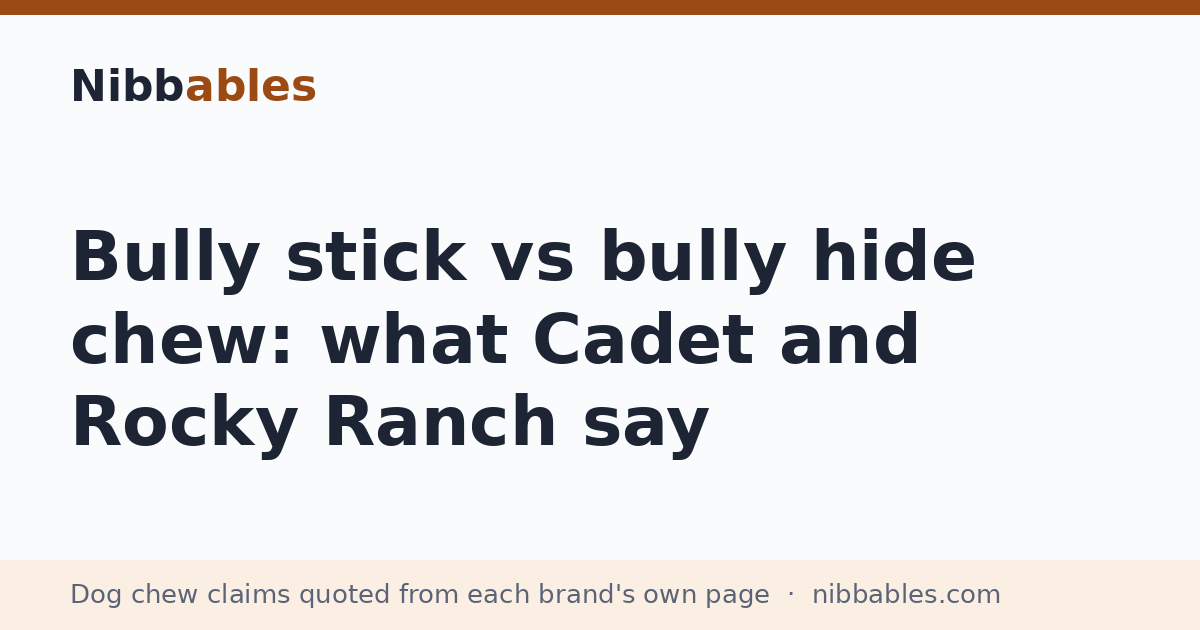
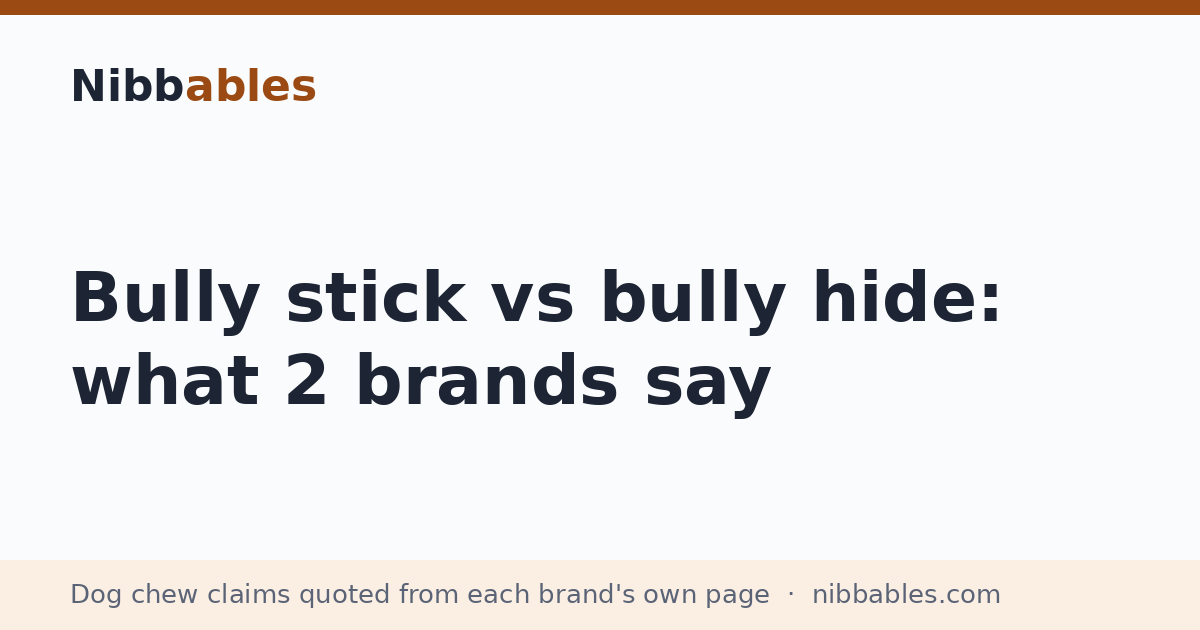
Article schema + org author + byline, use-case hub blocks, ItemList urls, click events
- Guides: Article JSON-LD (Organization author/publisher, real published + last-checked dates), og:type=article
- WebPage: Organization author on every page; visible 'Nibbables editorial team' byline with per-page updated date
- /bully-sticks/ and /antlers/: sourced use-case blocks, each attribute asserted against data/products.json
- Hub ItemList entries carry the product's own url (no Product/Offer/price)
- affiliate_click / outbound_click GA4 events on every page; privacy policy updated
- yak-chew-microwave headings rebuilt around the query cluster; titles trimmed

Changed region(s): [[0.0617, 0.3619, 0.8325, 0.7238]]

diff --git a/static/style.css b/static/style.css
@@ -52,3 +52,7 @@ nav{display:flex;flex-wrap:wrap;gap:4px 0}
 .ytplay{position:absolute;left:50%;top:50%;width:68px;height:48px;margin:-24px 0 0 -34px;background:#f00;border-radius:12px;opacity:.9}
 .ytplay::after{content:"";position:absolute;left:27px;top:14px;border-style:solid;border-width:10px 0 10px 17px;border-color:transparent transparent transparent #fff}
 .yt button:focus-visible{outline:3px solid #fff;outline-offset:-3px}
+
+.byline{color:var(--muted);font-size:.86rem;margin:.1em 0 .9em;padding-left:10px;border-left:3px solid var(--accent2)}
+ul.verdict{margin:8px 0 12px;padding-left:20px}
+ul.verdict li{margin:0 0 8px}

diff --git a/build.py b/build.py
@@ -109,7 +109,7 @@ META = {}  # path -> (title, description); feeds llms.txt
 # (latest last_checked of what the page shows), never "today". Feeds WebPage dateModified, visible dates and sitemap lastmod.
 MODIFIED = {}
 ABOUT_UPDATED = "2026-10-27"     # bump when /about/ text changes
-PRIVACY_UPDATED = "2026-10-27"   # matches privacy.EFFECTIVE
+PRIVACY_UPDATED = "2026-11-04"   # matches privacy.EFFECTIVE
 
 def cat_products(c, products):
     if c["slug"] == "rawhide-free":
@@ -127,9 +127,29 @@ def webpage_ld(title, desc, path):
     return {"@context": "https://schema.org", "@type": "AboutPage" if path == "/about/" else "WebPage",
             "@id": base_url() + path, "url": base_url() + path, "name": title, "description": desc,
             "dateModified": MODIFIED[path], "inLanguage": "en-US",
+            "author": {"@type": "Organization", "@id": base_url() + "/#org", "name": CFG["site_name"]},
             "isPartOf": {"@type": "WebSite", "@id": base_url() + "/#website", "name": CFG["site_name"],
                          "url": base_url() + "/", "publisher": org_ld()},
             "publisher": {"@id": base_url() + "/#org"}}
+
+def article_ld(g, path):
+    """Article JSON-LD for guide pages (added 2026-11-04). Author is the Nibbables Organization node, never a Person:
+    there is no named human behind this site and we don't imply veterinary review. datePublished is the guide's real
+    first-publication date, recorded in its own JSON when the page was written; dateModified is the page's real
+    last-checked date (MODIFIED, from the data), never the build time."""
+    pub = g.get("published")
+    assert re.fullmatch(r"\d{4}-\d{2}-\d{2}", pub or ""), f"guide {g['slug']}: needs a real 'published' date"
+    mod = MODIFIED[path]
+    assert pub <= mod, f"guide {g['slug']}: published {pub} is after its last-checked date {mod}"
+    return {"@context": "https://schema.org", "@type": "Article",
+            "@id": base_url() + path + "#article", "url": base_url() + path,
+            "headline": g["h1"][:110], "description": g["meta"],
+            "datePublished": pub, "dateModified": mod, "inLanguage": "en-US",
+            "author": {"@type": "Organization", "@id": base_url() + "/#org", "name": CFG["site_name"],
+                       "url": base_url() + "/"},
+            "publisher": {"@id": base_url() + "/#org"},
+            "isPartOf": {"@id": base_url() + "/#website"},
+            "mainEntityOfPage": {"@type": "WebPage", "@id": base_url() + path}}
 
 # Hand-written complete meta descriptions for pages whose long description would otherwise be cut mid-sentence.
 # Reworded only from the page's own description; no new facts. Keep <= 158 chars.
@@ -221,9 +241,43 @@ def breadcrumb_ld(body, path):
         dict({"@type": "ListItem", "position": i + 1, "name": n}, **({"item": h} if h else {}))
         for i, (n, h) in enumerate(items)]}
 
-def page(title, desc, path, body, jsonld=None):
+# Sitewide byline (added 2026-11-04). Organization only: there is no named person behind this site, so this never
+# names an author and never implies veterinary review. The date is the page's OWN last-checked date from the data
+# (MODIFIED), never the build time.
+BEFORE_LINE = ("Nibbables editorial team. Every claim on this page is quoted from the brand's own page or the source "
+               "linked next to it; we don't test, rate or review products.")
+GUIDE_LINE = ("Nibbables editorial team. Every claim on this page is quoted from the brand's own page or the named "
+              "source linked beside it; we don't test, rate or review products.")
+NO_BYLINE = ("/about/", "/privacy/")
+
+def byline(path, guide=False):
+    d = MODIFIED.get(path)
+    if not d or path in NO_BYLINE:
+        return ""
+    line = GUIDE_LINE if guide else BEFORE_LINE
+    return (f'<p class="byline">{e(line)} Page updated {e(d)}. '
+            f'<a href="{U("/about/")}">How we verify</a>.</p>')
+
+CLICK_JS = r"""<script>
+/* Outbound + affiliate click tracking (added 2026-11-04). Sends the destination host and, for affiliate links,
+   the id of the product card the link sits in. No personal data, no cookies, no cross-site ids. */
+(function(){function card(a){var c=a.closest('article.card');return c&&c.id?c.id:''}
+document.addEventListener('click',function(ev){var t=ev.target;if(!t||!t.closest)return;var a=t.closest('a[href]');if(!a)return;
+var h=a.getAttribute('href')||'';if(!h||h.charAt(0)==='#'||h.indexOf('mailto:')===0)return;var u;
+try{u=new URL(h,location.href)}catch(x){return}if(u.hostname===location.hostname)return;
+if(typeof gtag!=='function')return;var d=u.hostname.replace(/^www\./,'');
+if(a.classList.contains('aff')){gtag('event','affiliate_click',{link_domain:d,product_card:card(a)});}
+else{gtag('event','outbound_click',{link_domain:d,link_url:u.href});}},true);})();
+</script>
+</body></html>"""
+
+def page(title, desc, path, body, jsonld=None, guide=False):
     crumbs = breadcrumb_ld(body, path)
     body = link_hubs(body, path)
+    bl = byline(path, guide)
+    if bl:
+        i = body.find("</h1>")
+        body = (body[:i + 5] + "\n" + bl + body[i + 5:]) if i != -1 else bl + body
     desc = META_DESC.get(path, desc)
     title, desc = fit_meta(title, desc)
     url = base_url() + path
@@ -241,7 +295,7 @@ def page(title, desc, path, body, jsonld=None):
 <link rel="canonical" href="{e(url)}">
 <link rel="alternate" type="application/atom+xml" title="{e(CFG['site_name'])}" href="{e(base_url())}/feed.xml">
 <meta property="og:title" content="{e(title)}"><meta property="og:description" content="{e(desc)}">
-<meta property="og:type" content="website"><meta property="og:url" content="{e(url)}">
+<meta property="og:type" content="{'article' if guide else 'website'}"><meta property="og:url" content="{e(url)}">
 {og_image(path, title)}
 <link rel="stylesheet" href="{U('/static/style.css')}">{ld}
 </head><body>
@@ -251,7 +305,7 @@ def page(title, desc, path, body, jsonld=None):
 {body}
 </div></main>
 <footer><div class="wrap">© {year} {e(CFG['site_name'])}. We quote what each brand says on its own website and link the source. We don't test, rate or review products. Brand claims (including "Made in USA") are the brand's, not ours. Always supervise chewing, pick an appropriate size, and ask your vet. {footer_aff_note()} <a href="{U('/about/')}">How we verify &amp; affiliate disclosure</a>. <a href="{U('/privacy/')}">Privacy policy</a>. <a href="{YT_CHANNEL}" rel="noopener" target="_blank">Nibbables on YouTube</a>.</div></footer>
-</body></html>"""
+{CLICK_JS}"""
 
 SAFETY = """<aside class="note"><strong>Before you give any chew:</strong> supervise your dog while it chews, choose a size and hardness that suits your dog (follow the brand's size guidance), take away small or broken pieces, keep fresh water available, and ask your vet if a chew is right for your dog, especially for puppies, seniors, dogs with dental work or dogs on special diets. Nibbables does not rate safety. Each card shows what the brand itself says.</aside>"""
 
@@ -556,6 +610,108 @@ def cat_faq(c, ps):
 
 CATS = []  # filled in main()
 
+# ---------------------------------------------------------------------------------------------------------------
+# "Which one, by use case" hub answer blocks (added 2026-11-04, audit P1-10b). Google's results for "best bully sticks
+# for dogs" are recommendation listicles; these hubs opened with methodology and gave no answer. Every pick below rests
+# ONLY on an attribute the brand states on the product page we already quote, and that attribute is printed next to a
+# link to the product's own card. Nothing here is a test, a rating or a review. Each entry is machine-checked: the
+# assertion has to hold against data/products.json or the build fails, and the few superlatives are computed, not asserted.
+VERDICTS = {
+    "bully-sticks": {
+        "h": "Which bully stick, by use case, on the brands' own wording",
+        "intro": ("Not a ranking. Four use cases, and for each one a stick whose brand states the relevant attribute on "
+                  "the page we quote. The attribute is named for every pick, and each product links to its card below."),
+        "picks": [
+            {"use": "Small dogs and puppies",
+             "brand": "Campfire Treats", "product": "Thin Odor-Free Bully Sticks (4-6 Inch)",
+             "why": "its brand sizes it for small dogs and puppies",
+             "attribute": "the brand's own size guidance: \u201cPerfectly sized for small dogs and puppies\u201d",
+             "check": [("size_guidance", r"small dogs and puppies")]},
+            {"use": "Power chewers",
+             "brand": "GREAT DOG CO.", "product": "12\" Beef Bully Stick \u2013 Beef Pizzle 4.0, Jumbo Size",
+             "why": "its brand names strong chewers and states the stick's weight",
+             "attribute": "the brand's own size guidance: \u201cPerfect for Strong Chewers \u2013 Dense, long-lasting chew time for medium to large dogs\u201d, and its listed weight of 4.0\u20134.9 ounces per 12-inch stick",
+             "check": [("size_guidance", r"Strong Chewers"), ("sizes", "4\\.0\u2013?4\\.9 ounces")]},
+            {"use": "Odor and fat",
+             "brand": "Campfire Treats", "product": "Standard Odor-Free Bully Sticks (8-10 Inch)",
+             "why": "the brand calls it odor-free and its label states crude fat",
+             "attribute": "\u201cOdor-Free\u201d in the brand's product name; guaranteed analysis 7% crude fat (min) as the label states it",
+             "check": [("product", r"odor-free")], "fat": 7.0},
+            {"use": "The longest single stick listed on this page",
+             "brand": "Redbarn", "product": "Bully Sticks for Dogs",
+             "why": "it lists a 36-inch option, longer than any other brand here lists",
+             "attribute": "size options the brand lists, 3-4 inches up to 36 inches; that 36-inch option is the longest listed by any brand on this page",
+             "check": [("sizes", r"36\"")], "longest": 36},
+        ]},
+    "antlers": {
+        "h": "Which antler, by use case, on the brands' own wording",
+        "intro": ("Not a ranking. Three use cases, and for each one an antler whose brand states the relevant attribute on "
+                  "the page we quote. The attribute is named for every pick, and each product links to its card below. "
+                  "The antler cards here don't carry a guaranteed analysis from the brands, so this page makes no fat or "
+                  "calorie claim."),
+        "picks": [
+            {"use": "Sizes split by dog weight",
+             "brand": "Mighty Paw", "product": "All-Natural Elk Antlers",
+             "why": "it is the only brand here whose size options are given as dog weight ranges",
+             "attribute": "size options the brand lists by dog weight: Medium 10-45 lbs, Large 45-75 lbs, Monster 75+ lbs",
+             "check": [("sizes", r"75\+\s*lbs")], "only_weight_sizes": True},
+            {"use": "A stated country of origin",
+             "brand": "Redbarn", "product": "Elk Antler",
+             "why": "its page names the countries of origin and says where the antlers come from",
+             "attribute": "the brand's own wording: \u201cCountry of Origin: USA, Canada\u201d and \u201cWe only source wild antlers\u201d",
+             "check": [("made_in", "Country of Origin: USA, Canada"), ("sourced_from", "only source wild antlers")]},
+            {"use": "Puppies, senior dogs and dogs that need easier access to the marrow",
+             "brand": "GREAT DOG CO.", "product": "5 Inch Split Jumbo Elk Antler Chew",
+             "why": "it is listed as split, and its brand names those three groups for the split",
+             "attribute": "the brand's own size guidance naming \u201cpuppies, senior dogs, and dogs that prefer easier access to the marrow center\u201d",
+             "check": [("size_guidance", r"puppies, senior dogs, and dogs that prefer easier access to the marrow")]},
+        ]},
+}
+
+def _fat(p):
+    ga = p.get("guaranteed_analysis") or ""
+    m = re.search(r"crude\s+fat[^0-9%]{0,25}([\d.]+)\s*%", ga, re.I)
+    return float(m.group(1)) if m else None
+
+def _max_inches(p):
+    """Longest length in inches across a product's own size option labels (only where the label states inches)."""
+    n = 0
+    for lab in p["sizes"]:
+        for m in re.finditer(r"(\d+(?:\.\d+)?)\s*(?:\"|\u201d|in\b|inch)", lab, re.I):
+            n = max(n, float(m.group(1)))
+        for m in re.finditer(r"(\d+)\s*(?:-|\u2013)\s*(\d+)\s*(?:\"|\u201d|in\b|inch)", lab, re.I):
+            n = max(n, float(m.group(2)))
+    return n
+
+def verdict_block(c, ps):
+    """Render the use-case block for a hub. Every claim is asserted against the product's own quoted field."""
+    v = VERDICTS.get(c["slug"])
+    if not v:
+        return ""
+    items = []
+    for pk in v["picks"]:
+        p = next((x for x in ps if x["brand"] == pk["brand"] and x["product"] == pk["product"]), None)
+        assert p, f"verdict pick not in {c['slug']}: {pk['brand']} / {pk['product']}"
+        for field, rx in pk["check"]:
+            val = p[field]
+            val = " \u00b7 ".join(val) if isinstance(val, list) else val
+            assert re.search(rx, val, re.I), f"verdict claim unsupported by {p['id']}.{field}: {rx!r} not in {val!r}"
+        if "fat" in pk:
+            assert _fat(p) == pk["fat"], f"verdict fat claim no longer matches data for {p['id']}: {_fat(p)} != {pk['fat']}"
+        if "longest" in pk:
+            best = max(_max_inches(x) for x in ps)
+            assert _max_inches(p) == pk["longest"] == best, f"verdict 'longest' claim broken: {p['id']}={_max_inches(p)}, max={best}"
+        if pk.get("only_weight_sizes"):
+            others = [x for x in ps if x is not p and re.search(r"\blbs\b", " ".join(x["sizes"]), re.I)]
+            assert not others, f"verdict 'only brand with weight sizes' broken by {[o['id'] for o in others]}"
+        assert p["source_url"].startswith("https://"), f"verdict source for {p['id']} must be https"
+        items.append(f'<li><strong>{e(pk["use"])}:</strong> <a href="#{e(p["id"])}">{e(p["brand"])}: {e(p["product"])}</a> '
+                     f'&#8212; {e(pk["why"])}.<br><span class="meta">Brand-stated attribute: {e(pk["attribute"])}. '
+                     f'<a href="{e(p["source_url"])}" rel="nofollow noopener" target="_blank">Brand\'s own page, where it states that</a>.</span></li>')
+    return (f'<h2 id="which-one">{e(v["h"])}</h2><p>{e(v["intro"])}</p><ul class="verdict">{"".join(items)}</ul>'
+            f'<p class="meta">Each pick rests on the attribute named above and nothing else. Nibbables doesn\'t rank, '
+            f'test or rate chews, and this isn\'t a recommendation for your dog; ask your vet what suits it.</p>')
+
 def sibling_hubs_block(c, products):
     """Hub-to-hub links (entity hubs, 2026-10-25): every chew-type page links in-body to the other chew-type pages,
     with product counts computed from data/products.json."""
@@ -584,8 +740,9 @@ def category_page(c, products):
     faq_html, faq_ld = cat_faq(c, ps)
     toc = "".join(f'<li><a href="#{e(p["id"])}">{e(p["brand"])}: {e(p["product"])}</a></li>' for p in ps)
     body = f"""<p class="meta"><a href="{U('/')}">Home</a> › {e(c['name'])}</p>
-<h1>{e(c['h1'])}</h1><p class="lead">{e(c['intro'])}</p>
-<p class="meta">{len(ps)} products · every claim is quoted from the brand's own page and linked · no prices (they change; check the brand) · page updated {e(MODIFIED.get(f"/{c['slug']}/", ""))} · <a href="{U('/compare/')}">compare all in one table</a></p>
+<h1>{e(c['h1'])}</h1>
+{verdict_block(c, ps)}<p class="lead">{e(c['intro'])}</p>
+<p class="meta">{len(ps)} products · every claim is quoted from the brand's own page and linked · no prices (they change; check the brand) · <a href="{U('/compare/')}">compare all in one table</a></p>
 {SAFETY}
 {aff_disclosure(ps)}
 <details class="toc"><summary>Products on this page</summary><ul>{toc}</ul></details>
@@ -597,8 +754,11 @@ def category_page(c, products):
 {sibling_hubs_block(c, products)}
 <h2 id="all-products">All {len(ps)} {e(c['name'].lower())} we list, with what each brand's page says</h2>
 {''.join(card(p) for p in ps)}"""
+    # ListItem url = the product's own page (2026-11-04): the destination of the card's "Brand's product page" link
+    # (for CJ products that link resolves to exactly this URL). Names only otherwise: no Product, Offer, price or rating.
     ld = {"@context": "https://schema.org", "@type": "ItemList", "name": c["h1"],
-          "itemListElement": [{"@type": "ListItem", "position": i + 1, "name": f"{p['brand']} {p['product']}"} for i, p in enumerate(ps)]}
+          "itemListElement": [{"@type": "ListItem", "position": i + 1, "name": f"{p['brand']} {p['product']}", "url": p["source_url"]}
+                              for i, p in enumerate(ps)]}
     return page(c["title"], c["meta"], f"/{c['slug']}/", body, [ld, faq_ld])
 
 def mentions_usa(p):
@@ -841,10 +1001,10 @@ def guide_page(g, products):
     srcs = "".join(f'<li><a href="{e(s["url"])}" rel="nofollow noopener" target="_blank">{e(s["label"])}</a></li>' for s in g["sources"])
     cards = aff_disclosure([byid[pid] for pid in g.get("product_ids", [])]) + "".join(card(byid[pid]) for pid in g.get("product_ids", []))
     body = f"""<p class="meta"><a href="{U('/')}">Home</a> › {e(g['h1'])}</p><h1>{e(g['h1'])}</h1><p class="lead">{e(g['intro'])}</p>
-<p class="meta">Last checked {e(g['last_checked'])}{(" · page updated " + e(MODIFIED[f"/{g['slug']}/"])) if MODIFIED.get(f"/{g['slug']}/", g['last_checked']) != g['last_checked'] else ""}</p>{SAFETY}{tbl}{yt_embed(f"/{g['slug']}/", YT_CHANNEL, 'Nibbables')}{faq_html}{secs}{cards}<h2>Sources</h2><ul>{srcs}</ul>{guide_related(g)}"""
+<p class="meta">Sources last checked {e(g['last_checked'])}</p>{SAFETY}{tbl}{yt_embed(f"/{g['slug']}/", YT_CHANNEL, 'Nibbables')}{faq_html}{secs}{cards}<h2>Sources</h2><ul>{srcs}</ul>{guide_related(g)}"""
     ld = {"@context": "https://schema.org", "@type": "FAQPage", "mainEntity": [
         {"@type": "Question", "name": f["q"], "acceptedAnswer": {"@type": "Answer", "text": f["a"]}} for f in faq]} if faq else None
-    return page(g["title"], g["meta"], f"/{g['slug']}/", body, ld)
+    return page(g["title"], g["meta"], f"/{g['slug']}/", body, [x for x in (ld, article_ld(g, f"/{g['slug']}/")) if x], guide=True)
 
 def primary_url(p):
     """Same primary outbound destination as the product card: CJ (Raw Paws) > Amazon (exact ASIN) > brand source_url."""

diff --git a/privacy.py b/privacy.py
@@ -8,7 +8,7 @@ no forms, accounts or email collection; hosted on GitHub Pages (no Cloudflare/CD
 import html
 e = lambda s: html.escape(str(s), quote=True)
 
-EFFECTIVE = "November 2, 2026"
+EFFECTIVE = "November 4, 2026"
 OPERATOR = "2 Handed Coding, LLC"
 CONTACT = "developer@2handedcoding.com"
 
@@ -24,6 +24,7 @@ def body(site, domain, ga_id, video_pages, affiliate_html, filter_note, clarity_
 <li><strong>What it collects:</strong> the pages you view and the standard events Google Analytics records automatically (for example page views, scrolls and outbound link clicks), the page that referred you, your browser and device type, screen size, language, and an approximate location (country, region or city) that Google derives from your IP address. Google states that Google Analytics 4 does not log or store IP addresses.</li>
 <li><strong>Cookies:</strong> Google Analytics sets first-party cookies named <code>_ga</code> and <code>_ga_&lt;ID&gt;</code> on {e(domain)} to tell one visit from another. Google documents a lifetime of up to 2 years for these cookies.</li>
 <li><strong>Our settings:</strong> Google signals is turned off, event-level data is kept for 2 months (the shortest option Google Analytics offers), and the property isn't linked to Google Ads. The account's data-sharing settings are on, which lets Google use the data as described in <a href="https://support.google.com/analytics/answer/1011397" rel="noopener" target="_blank">Google Analytics data-sharing settings</a>.</li>
+<li><strong>Clicks to other sites:</strong> when you click a link that leaves {e(domain)}, the page sends Google Analytics an event so we can tell whether anyone uses the links we list. For affiliate links the event records the destination's domain name and which product card the link sat in; for other links it records the destination's domain name and full URL. It sends no name, email address or other identifier, and it isn't tied to a profile of you.</li>
 <li><strong>What we see:</strong> aggregate reports (page views, traffic sources, countries, device types). We don't see your name, email address or IP address.</li>
 <li><strong>Opting out:</strong> you can block or delete cookies in your browser, use a content blocker, or install the <a href="https://tools.google.com/dlpage/gaoptout" rel="noopener" target="_blank">Google Analytics Opt-out Browser Add-on</a>. Google explains its practices in <a href="https://policies.google.com/technologies/partner-sites" rel="noopener" target="_blank">How Google uses information from sites or apps that use its services</a>.</li>
 </ul>"""

diff --git a/content-queue.md b/content-queue.md
@@ -2,6 +2,9 @@
 
 Each item: page path, what it needs, and candidate official sources to check first. Sources marked (feed) have a Shopify products.json that worked on 2026-10-23.
 
+## TOP OF QUEUE — do this first
+- [ ] Split /dog-chews-by-dog-size-and-chewer/ (audit 2026-11-04): 127 KB of HTML with 174 internal and 297 outbound links, 120 of them affiliate. Dilutes link equity on a page whose job is grouping, and 120 sponsored links on one URL is the shape Google's thin-affiliate guidance warns about. Proposed split: one page per group already defined in AUD_GROUPS (puppies, small-dogs, medium-large-dogs, power-chewers, light-chewers, seniors, by-weight), each with the brand table for that group only, plus a small index at the current URL that links them. Keep the same verbatim size-guidance quotes; no new claims. Bigger job than a nightly run: plan it as its own session.
+
 ## New categories / product batches
 - [x] /fish-skin-chews/ (PUBLISHED 2026-11-01, 9 products: Icelandic+, Campfire Treats, Jack's Premium, The Honest Kitchen; keyword-targets row 7 fish skin cluster)
 - [x] /yak-chews-and-pancreatitis/ (PUBLISHED 2026-11-01: fat/calorie lines from 8 yak pages + Tufts + AAFCO; keyword-targets row 7 yak + pancreatitis)
